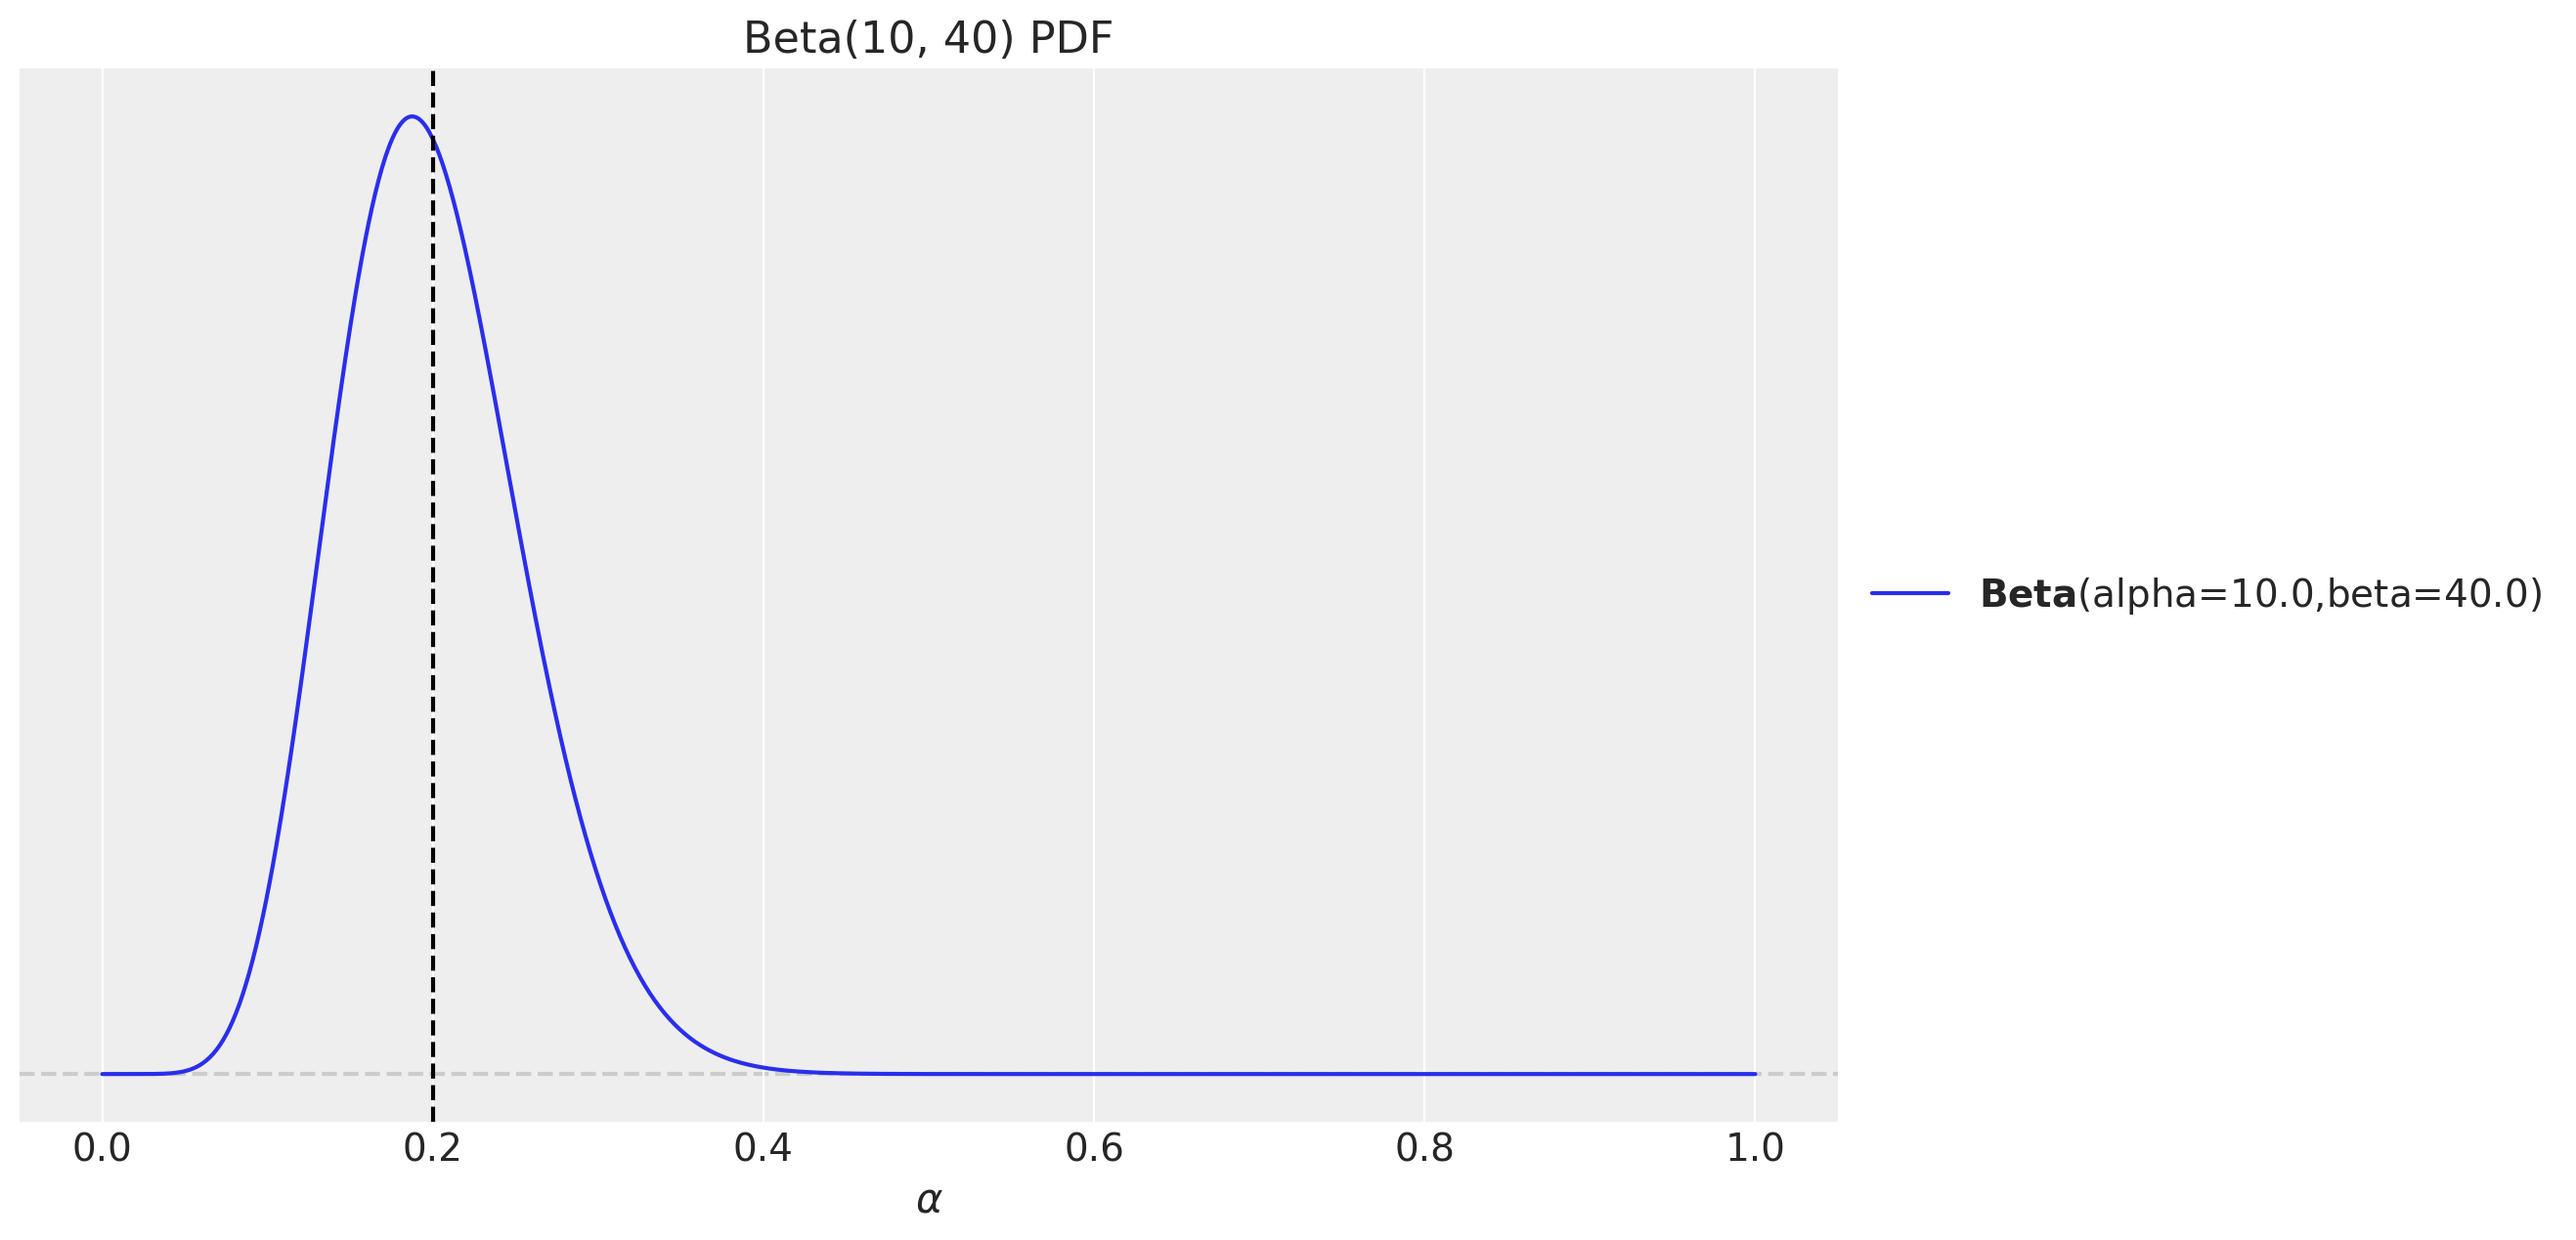
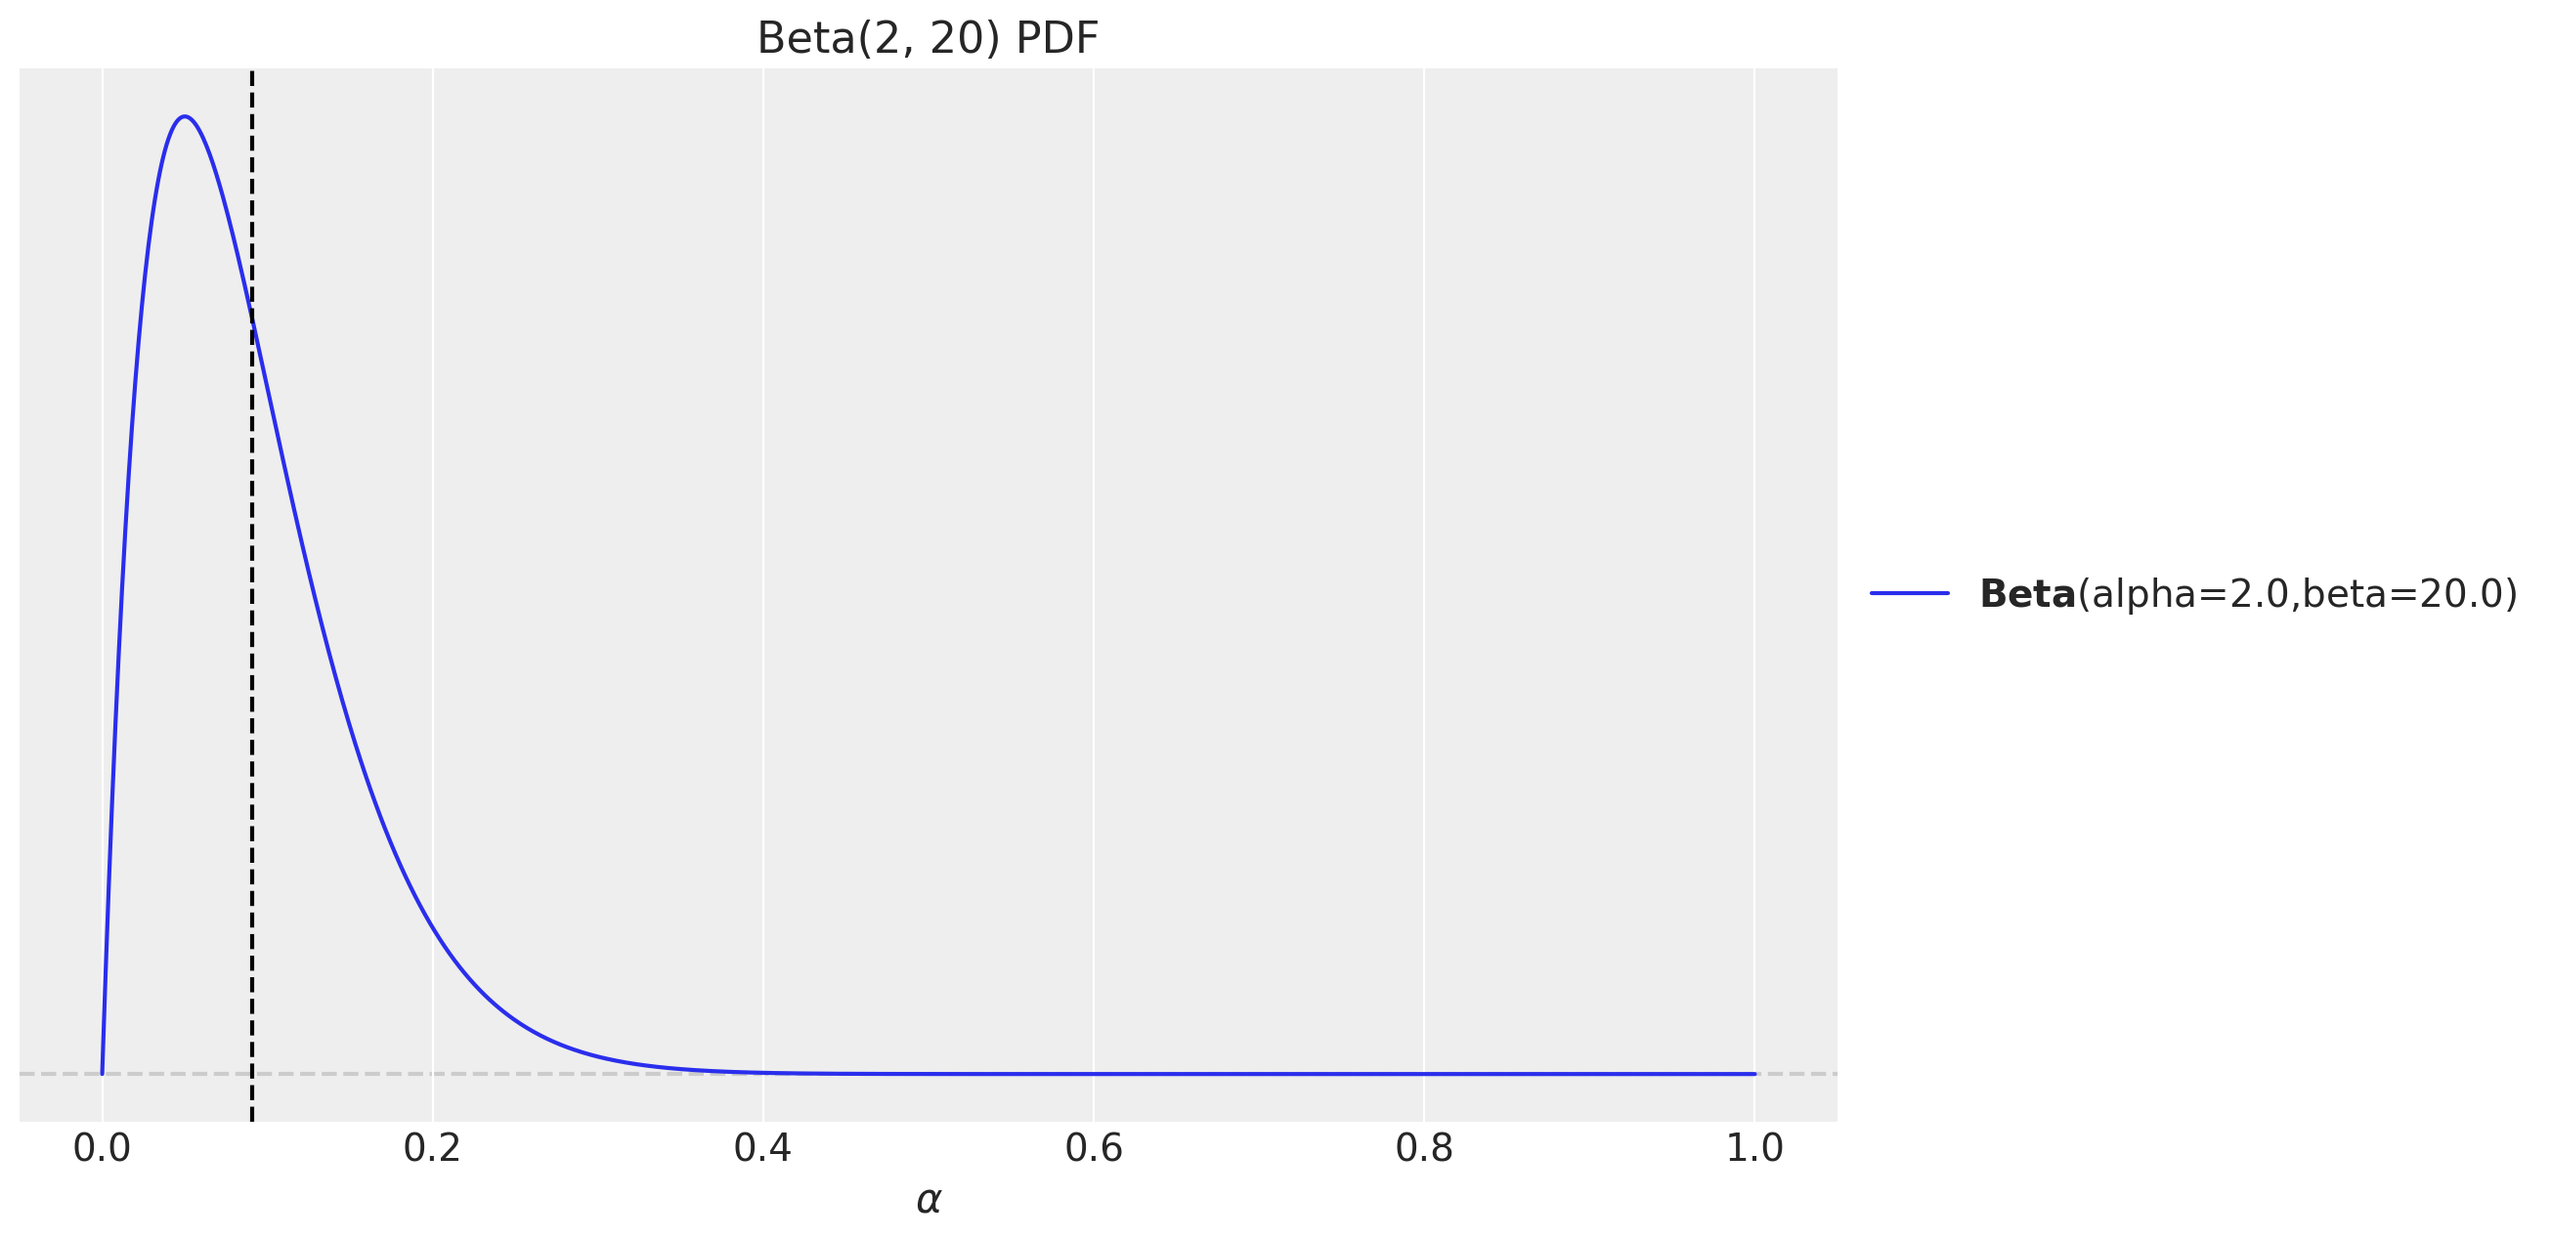
fix prior plot

diff --git a/croston_numpyro/index.html b/croston_numpyro/index.html
@@ -254,11 +254,11 @@ ax.set(xlabel=&quot;time&quot;, ylabel=&quot;y&quot;, title=&quot;Croston Optimi
 </div>
 <div id="crostons-method-in-numpyro" class="section level2">
 <h2>Croston’s Method in NumPyro</h2>
-<p>As described in the introduction, we can use the simple exponential smoothing (level) model presented in the previous post <a href="https://juanitorduz.github.io/exponential_smoothing_numpyro/">Notes on Exponential Smoothing with NumPyro</a>. The only thing we need to change is to select a prior for the smoothing parameter so that the support of the prior is close to the interval <span class="math inline">\([0.1, 0.3]\)</span>. As we are using a Beta distribution as a prior for the smoothing parameter, we can use a Beta distribution with parameters <span class="math inline">\(\alpha = 10\)</span> and <span class="math inline">\(\beta = 40\)</span>.</p>
+<p>As described in the introduction, we can use the simple exponential smoothing (level) model presented in the previous post <a href="https://juanitorduz.github.io/exponential_smoothing_numpyro/">Notes on Exponential Smoothing with NumPyro</a>. The only thing we need to change is to select a prior for the smoothing parameter so that the support of the prior is close to the interval <span class="math inline">\([0.1, 0.3]\)</span>. As we are using a Beta distribution as a prior for the smoothing parameter, we can use a Beta distribution with parameters <span class="math inline">\(\alpha = 2\)</span> and <span class="math inline">\(\beta = 20\)</span>.</p>
 <pre class="python"><code>fig, ax = plt.subplots()
-pz.Beta(10, 40).plot_pdf(ax=ax)
-ax.axvline(x=(10 / (40 + 10)), c=&quot;black&quot;, linestyle=&quot;--&quot;)  # mean
-ax.set(title=&quot;Beta(10, 40) PDF&quot;, xlabel=&quot;$\\alpha$&quot;)</code></pre>
+pz.Beta(2, 20).plot_pdf(ax=ax)
+ax.axvline(x=(2 / (20 + 2)), c=&quot;black&quot;, linestyle=&quot;--&quot;)  # mean
+ax.set(title=&quot;Beta(2, 20) PDF&quot;, xlabel=&quot;$\\alpha$&quot;)</code></pre>
 <center>
 <img src="../images/croston_numpyro_files/croston_numpyro_16_1.png" style="width: 900px;"/>
 </center>
